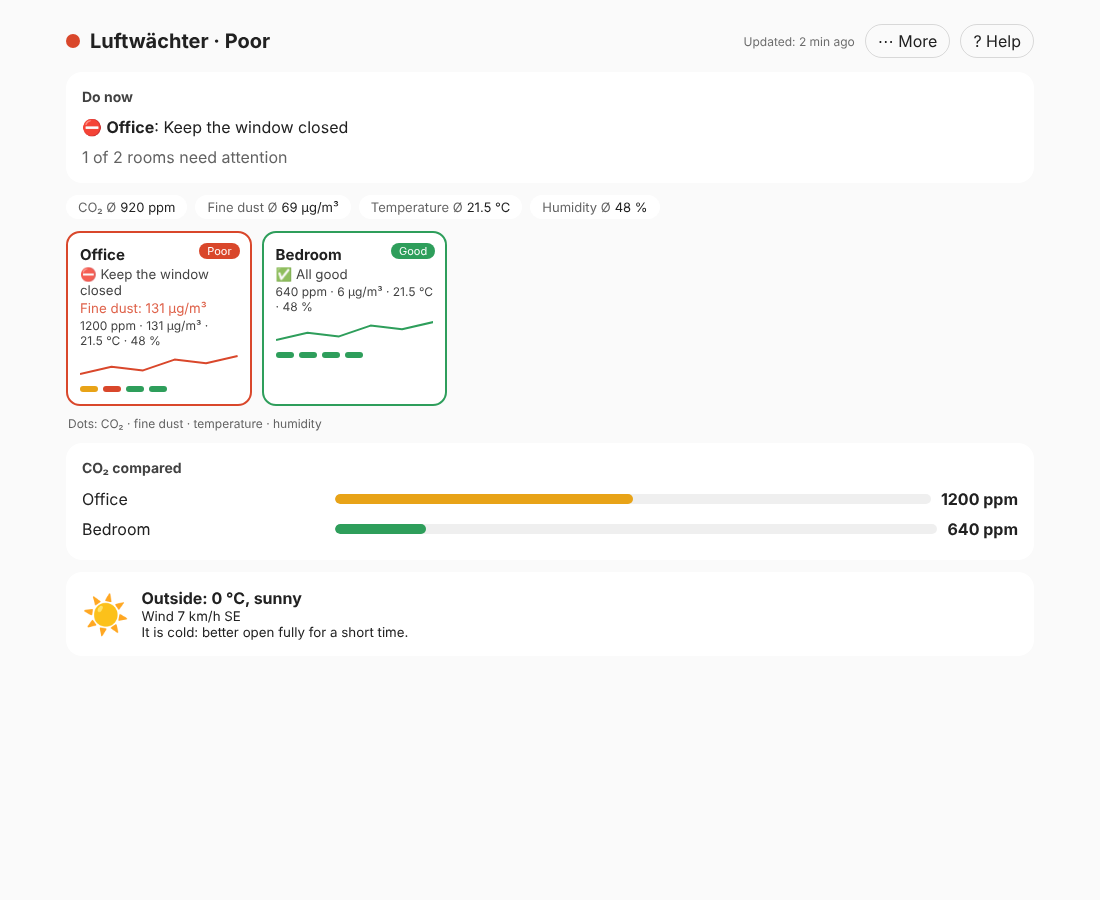
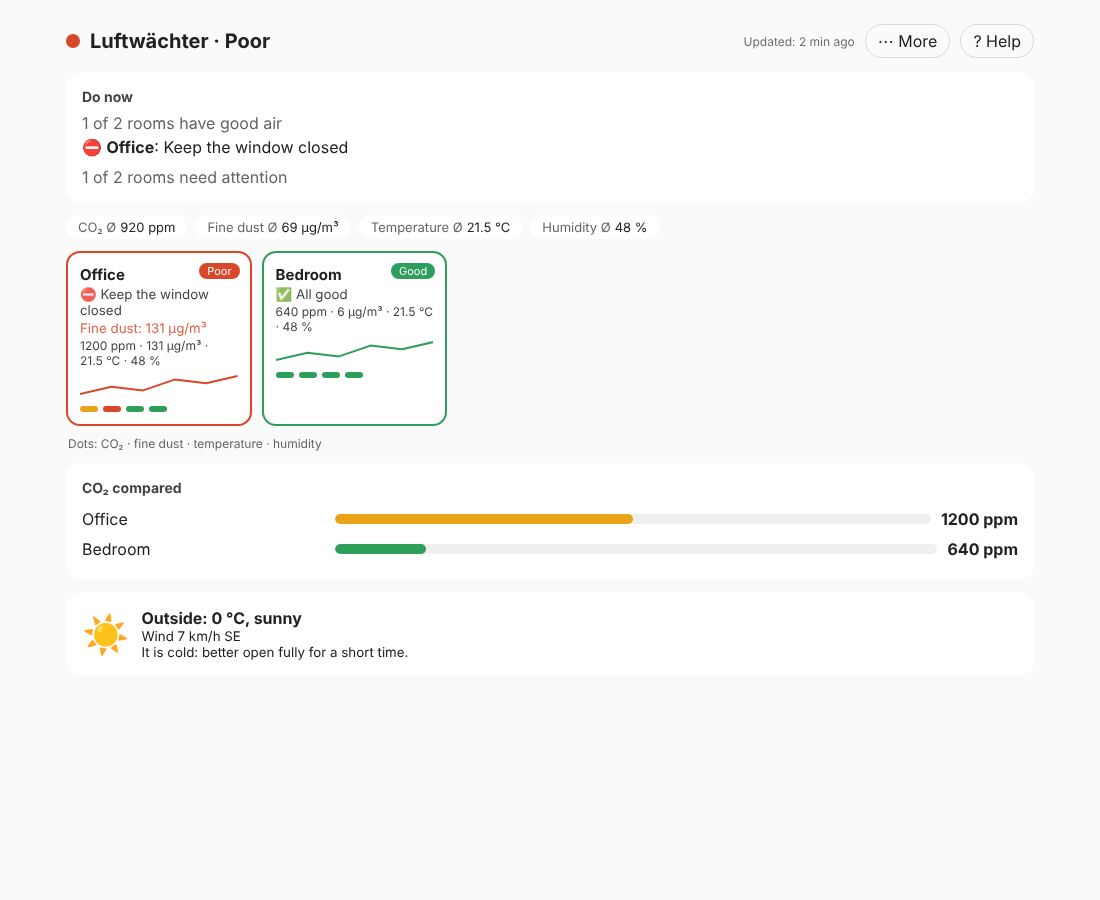
0.11.0: per-room ventilate sensor, reminder blueprint, summary line, announcer, tooltips, print
Claude-Session: https://claude.ai/code/session_01W38UNCWRvMYfcRr6jVyi8m

diff --git a/custom_components/luftwaechter/frontend/luftwaechter-panel.js b/custom_components/luftwaechter/frontend/luftwaechter-panel.js
@@ -11,7 +11,7 @@ const UI = {
     cover_open: "Auf", cover_stop: "Stopp", cover_close: "Zu", allgood: "Alle Werte im grünen Bereich.",
     isPoor: "ist schlecht", isFair: "ist mittel", tooHigh: "zu hoch", tooLow: "zu niedrig", limit: "Grenze",
     attention: "Jetzt tun", nothing: "Nichts zu tun, alles in Ordnung.", rooms_n: "{a} von {n} Räumen brauchen Aufmerksamkeit", stale: "Die Daten sind möglicherweise veraltet (letztes Update vor {n} min).",
-    kTitle: "Tastenkürzel", kRoom: "Raum wechseln", kBack: "Zurück", kSearch: "Suchen", kSort: "Sortieren", kPin: "Raum anheften", kOnly: "Nur Probleme", kList: "Listenansicht", kCopy: "Hausübersicht kopieren", kMenu: "Menü", kRot: "Räume durchschalten", kFs: "Vollbild", kHelp: "Hilfe", swiped: "Wischen wechselt den Raum", size: "Textgröße", onbTitle: "So kommen Räume ins Panel", onb1: "Weise CO₂-, Feinstaub-, Temperatur- oder Luftfeuchte-Sensoren einem Bereich zu (Einstellungen → Bereiche).", onb2: "Der Raum erscheint automatisch, sobald ein Sensor Werte liefert.", onb3: "Optional: Gib einem Fenstersensor die Geräteklasse „Fenster“, dann bekommst du Lüftungsempfehlungen.", noHouse: "Die Integration Luftwächter wurde nicht gefunden. Einstellungen → Geräte & Dienste → Integration hinzufügen → Luftwächter.", legend: "Punkte: CO₂ · Feinstaub · Temperatur · Luftfeuchte", avgT: "Ø im Haus", ventStart: "Lüftungs-Timer starten ({n} min)", ventRun: "Lüften läuft", ventDone: "Zeit ist um: Fenster jetzt schließen", ventStop: "Abbrechen", fs: "Vollbild", fsExit: "Vollbild beenden", copyAll: "Hausstatus kopieren", trendUp: "Steigend", trendDown: "Fallend", onlyProblems: "Nur Probleme", rank: "CO₂ im Vergleich", rotate: "Räume automatisch durchschalten", csv: "CSV", shortcuts: "Tastatur: ← → Raum wechseln · Esc zurück · / suchen · S sortieren · P anheften · O nur Probleme · V Listenansicht · M Menü · R durchschalten · F Vollbild · H Hilfe", search: "Raum suchen…", noMatch: "Kein Raum gefunden.", listView: "Listenansicht", tileView: "Kachelansicht", soundOn: "Signalton bei Ablauf: an", soundOff: "Signalton bei Ablauf: aus", copyLink: "Link kopieren", mold: "Schimmelgefahr", dew: "Taupunkt", more: "Mehr", refreshNow: "Jetzt aktualisieren", cbMode: "Farbenblind-Modus (Symbole)", sinceFor: "{l} seit {t}", sortCo2: "Höchstes CO₂ zuerst", pin: "Oben anheften", unpin: "Nicht mehr anheften", pinned: "Angeheftet", copy: "Status kopieren", copied: "Kopiert", r6h: "6 h", r24h: "24 h", r7d: "7 Tage", a6h: "vor 6 h", a24h: "vor 24 h", a7d: "vor 7 Tagen", dayU: "Tg", hourU: "h",
+    goodOf: "{g} von {n} Räumen haben gute Luft", print: "Drucken / als PDF speichern", kTitle: "Tastenkürzel", kRoom: "Raum wechseln", kBack: "Zurück", kSearch: "Suchen", kSort: "Sortieren", kPin: "Raum anheften", kOnly: "Nur Probleme", kList: "Listenansicht", kCopy: "Hausübersicht kopieren", kMenu: "Menü", kRot: "Räume durchschalten", kFs: "Vollbild", kHelp: "Hilfe", swiped: "Wischen wechselt den Raum", size: "Textgröße", onbTitle: "So kommen Räume ins Panel", onb1: "Weise CO₂-, Feinstaub-, Temperatur- oder Luftfeuchte-Sensoren einem Bereich zu (Einstellungen → Bereiche).", onb2: "Der Raum erscheint automatisch, sobald ein Sensor Werte liefert.", onb3: "Optional: Gib einem Fenstersensor die Geräteklasse „Fenster“, dann bekommst du Lüftungsempfehlungen.", noHouse: "Die Integration Luftwächter wurde nicht gefunden. Einstellungen → Geräte & Dienste → Integration hinzufügen → Luftwächter.", legend: "Punkte: CO₂ · Feinstaub · Temperatur · Luftfeuchte", avgT: "Ø im Haus", ventStart: "Lüftungs-Timer starten ({n} min)", ventRun: "Lüften läuft", ventDone: "Zeit ist um: Fenster jetzt schließen", ventStop: "Abbrechen", fs: "Vollbild", fsExit: "Vollbild beenden", copyAll: "Hausstatus kopieren", trendUp: "Steigend", trendDown: "Fallend", onlyProblems: "Nur Probleme", rank: "CO₂ im Vergleich", rotate: "Räume automatisch durchschalten", csv: "CSV", shortcuts: "Tastatur: ← → Raum wechseln · Esc zurück · / suchen · S sortieren · P anheften · O nur Probleme · V Listenansicht · M Menü · R durchschalten · F Vollbild · H Hilfe", search: "Raum suchen…", noMatch: "Kein Raum gefunden.", listView: "Listenansicht", tileView: "Kachelansicht", soundOn: "Signalton bei Ablauf: an", soundOff: "Signalton bei Ablauf: aus", copyLink: "Link kopieren", mold: "Schimmelgefahr", dew: "Taupunkt", more: "Mehr", refreshNow: "Jetzt aktualisieren", cbMode: "Farbenblind-Modus (Symbole)", sinceFor: "{l} seit {t}", sortCo2: "Höchstes CO₂ zuerst", pin: "Oben anheften", unpin: "Nicht mehr anheften", pinned: "Angeheftet", copy: "Status kopieren", copied: "Kopiert", r6h: "6 h", r24h: "24 h", r7d: "7 Tage", a6h: "vor 6 h", a24h: "vor 24 h", a7d: "vor 7 Tagen", dayU: "Tg", hourU: "h",
     helpTitle: "Was bedeuten die Messwerte?", causes: "Mögliche Ursachen", todo: "Was hilft",
     hCo2: "CO₂ (Kohlendioxid) zeigt, wie verbraucht die Raumluft ist. Wir atmen es aus.",
     cCo2: "Viele Personen im Raum, Schlafen bei geschlossenem Fenster, kleine Räume, geschlossene Türen, Kerzen oder Gasflammen.",
@@ -36,7 +36,7 @@ const UI = {
     cover_open: "Open", cover_stop: "Stop", cover_close: "Close", allgood: "All readings are in the green.",
     isPoor: "is poor", isFair: "is fair", tooHigh: "too high", tooLow: "too low", limit: "Limit",
     attention: "Do now", nothing: "Nothing to do, all good.", rooms_n: "{a} of {n} rooms need attention", stale: "Data may be outdated (last update {n} min ago).",
-    kTitle: "Keyboard shortcuts", kRoom: "Switch room", kBack: "Back", kSearch: "Search", kSort: "Sort", kPin: "Pin room", kOnly: "Only problems", kList: "List view", kCopy: "Copy house summary", kMenu: "Menu", kRot: "Rotate rooms", kFs: "Full screen", kHelp: "Help", swiped: "Swipe to change room", size: "Text size", onbTitle: "How rooms get into the panel", onb1: "Assign CO₂, fine dust, temperature or humidity sensors to an area (Settings → Areas).", onb2: "The room appears automatically as soon as a sensor reports values.", onb3: "Optional: give a window sensor the device class \"window\" to get ventilation advice.", noHouse: "The Luftwächter integration was not found. Settings → Devices & services → Add integration → Luftwächter.", legend: "Dots: CO₂ · fine dust · temperature · humidity", avgT: "House average", ventStart: "Start ventilation timer ({n} min)", ventRun: "Ventilating", ventDone: "Time is up: close the window now", ventStop: "Cancel", fs: "Full screen", fsExit: "Exit full screen", copyAll: "Copy house status", trendUp: "Rising", trendDown: "Falling", onlyProblems: "Only problems", rank: "CO₂ compared", rotate: "Rotate through rooms automatically", csv: "CSV", shortcuts: "Keyboard: ← → switch room · Esc back · / search · S sort · P pin · O only problems · V list view · M menu · R rotate · F full screen · H help", search: "Find a room…", noMatch: "No room found.", listView: "List view", tileView: "Tile view", soundOn: "Sound when time is up: on", soundOff: "Sound when time is up: off", copyLink: "Copy link", mold: "Mold risk", dew: "Dew point", more: "More", refreshNow: "Refresh now", cbMode: "Color-blind mode (symbols)", sinceFor: "{l} for {t}", sortCo2: "Highest CO₂ first", pin: "Pin to top", unpin: "Unpin", pinned: "Pinned", copy: "Copy status", copied: "Copied", r6h: "6 h", r24h: "24 h", r7d: "7 days", a6h: "6 h ago", a24h: "24 h ago", a7d: "7 days ago", dayU: "d", hourU: "h",
+    goodOf: "{g} of {n} rooms have good air", print: "Print / save as PDF", kTitle: "Keyboard shortcuts", kRoom: "Switch room", kBack: "Back", kSearch: "Search", kSort: "Sort", kPin: "Pin room", kOnly: "Only problems", kList: "List view", kCopy: "Copy house summary", kMenu: "Menu", kRot: "Rotate rooms", kFs: "Full screen", kHelp: "Help", swiped: "Swipe to change room", size: "Text size", onbTitle: "How rooms get into the panel", onb1: "Assign CO₂, fine dust, temperature or humidity sensors to an area (Settings → Areas).", onb2: "The room appears automatically as soon as a sensor reports values.", onb3: "Optional: give a window sensor the device class \"window\" to get ventilation advice.", noHouse: "The Luftwächter integration was not found. Settings → Devices & services → Add integration → Luftwächter.", legend: "Dots: CO₂ · fine dust · temperature · humidity", avgT: "House average", ventStart: "Start ventilation timer ({n} min)", ventRun: "Ventilating", ventDone: "Time is up: close the window now", ventStop: "Cancel", fs: "Full screen", fsExit: "Exit full screen", copyAll: "Copy house status", trendUp: "Rising", trendDown: "Falling", onlyProblems: "Only problems", rank: "CO₂ compared", rotate: "Rotate through rooms automatically", csv: "CSV", shortcuts: "Keyboard: ← → switch room · Esc back · / search · S sort · P pin · O only problems · V list view · M menu · R rotate · F full screen · H help", search: "Find a room…", noMatch: "No room found.", listView: "List view", tileView: "Tile view", soundOn: "Sound when time is up: on", soundOff: "Sound when time is up: off", copyLink: "Copy link", mold: "Mold risk", dew: "Dew point", more: "More", refreshNow: "Refresh now", cbMode: "Color-blind mode (symbols)", sinceFor: "{l} for {t}", sortCo2: "Highest CO₂ first", pin: "Pin to top", unpin: "Unpin", pinned: "Pinned", copy: "Copy status", copied: "Copied", r6h: "6 h", r24h: "24 h", r7d: "7 days", a6h: "6 h ago", a24h: "24 h ago", a7d: "7 days ago", dayU: "d", hourU: "h",
     helpTitle: "What do the readings mean?", causes: "Possible causes", todo: "What helps",
     hCo2: "CO₂ (carbon dioxide) shows how stale the room air is. We breathe it out.",
     cCo2: "Many people in the room, sleeping with the window closed, small rooms, closed doors, candles or gas flames.",
@@ -125,7 +125,7 @@ class LuftwaechterPanel extends HTMLElement {
     return [ov && many ? b("only", "⚠", t.onlyProblems, this._only) : "", ov && many ? b("sort", "↕", this._sortLabel(t)) : "",
       ov && many ? b("dens", this._list ? "▦" : "☰", this._list ? t.tileView : t.listView) : "", many ? b("rot", "⟳", t.rotate, this._rot) : "",
       ov && rooms.length ? b("copyall", "⧉", t.copyAll) : "", document.fullscreenEnabled ? b("fs", fs ? "🗗" : "⛶", fs ? t.fsExit : t.fs) : "",
-      b("size", "Aa", t.size), b("cb", "◐", t.cbMode, this._cb), b("refresh", "↻", t.refreshNow)].join("");
+      b("print", "🖨", t.print), b("size", "Aa", t.size), b("cb", "◐", t.cbMode, this._cb), b("refresh", "↻", t.refreshNow)].join("");
   }
   _nextSort() { this._sort = { worst: "name", name: "co2" }[this._sort] || "worst"; store.set("lw_sort", this._sort); this._render(); }
   _pin(key) { const i = this._pins.indexOf(key); if (i < 0) this._pins.push(key); else this._pins.splice(i, 1); store.set("lw_pins", JSON.stringify(this._pins)); this._render(); }
@@ -427,13 +427,14 @@ header{position:sticky;top:0;z-index:5;background:var(--primary-background-color
     else if (!sel) {
       const todo = rooms.filter((r) => ["open", "close", "wait", "keep_open"].includes(r.action) || r.level === "poor" || r.level === "fair");
       const attn = rooms.filter((r) => r.level === "poor" || r.level === "fair").length;
-      const sum = `<div class="card sum"><h3>${esc(t.attention)}</h3>${todo.length ? `<ul class="todo">${todo.map((r) => `<li><button class="link" data-room="${esc(r.key)}"><span>${ICON[r.action] && r.action !== "keep_closed" ? ICON[r.action] : LVLICON[["good", "fair", "poor"].indexOf(r.level)] || "❔"}</span> <b>${esc(r.name)}</b>: ${esc(r.headline)}</button></li>`).join("")}</ul><p class="muted">${esc(t.rooms_n.replace("{a}", attn).replace("{n}", rooms.length))}</p>` : `<p class="muted">✅ ${esc(t.nothing)}</p>`}</div>`;
+      const goodN = rooms.filter((r) => r.level === "good").length;
+      const sum = `<div class="card sum"><h3>${esc(t.attention)}</h3>${rooms.length > 1 ? `<p class="muted goodof">${esc(t.goodOf.replace("{g}", goodN).replace("{n}", rooms.length))}</p>` : ""}${todo.length ? `<ul class="todo">${todo.map((r) => `<li><button class="link" data-room="${esc(r.key)}"><span>${ICON[r.action] && r.action !== "keep_closed" ? ICON[r.action] : LVLICON[["good", "fair", "poor"].indexOf(r.level)] || "❔"}</span> <b>${esc(r.name)}</b>: ${esc(r.headline)}</button></li>`).join("")}</ul><p class="muted">${esc(t.rooms_n.replace("{a}", attn).replace("{n}", rooms.length))}</p>` : `<p class="muted">✅ ${esc(t.nothing)}</p>`}</div>`;
       const stats = this._stats(rooms, a.lang);
       const shown = this._only ? rooms.filter((r) => r.level !== "good") : rooms;
       body = sum + `<div class="stats" aria-label="${esc(t.avgT)}">${stats.map(([k, v, u]) => `<span><em>${esc(t[k])} Ø</em>${esc(v)} ${esc(u)}</span>`).join("")}</div>${shown.length ? "" : `<p class="muted">✅ ${esc(t.nothing)}</p>`}${rooms.length >= 6 ? `<input class="search" id="q" type="search" value="${esc(this._q)}" placeholder="${esc(t.search)}" aria-label="${esc(t.search)}">` : ""}<p class="muted" id="nomatch" hidden>${esc(t.noMatch)}</p><div class="tiles${this._list ? " list" : ""}">${shown.map((r) => {
         const bad = r.values.filter((v) => v.level >= 1 && v.raw != null).sort((x, y) => y.level - x.level)[0];
         const co2 = r.values.find((v) => v.key === "co2");
-        return `<button class="tile" data-name="${esc(r.name.toLowerCase())}" data-room="${esc(r.key)}" style="border-color:${this._col(r.level)}" aria-label="${esc(r.name)}: ${esc(t[r.level] || t.unknown)}">
+        return `<button class="tile" data-name="${esc(r.name.toLowerCase())}" data-room="${esc(r.key)}" style="border-color:${this._col(r.level)}" aria-label="${esc(r.name)}: ${esc(t[r.level] || t.unknown)}" title="${esc(r.headline)} · ${esc(r.detail)}">
           <b>${this._pins.includes(r.key) ? "★ " : ""}${esc(r.name)}</b><span class="pill" title="${r.since >= 2 ? esc(t.sinceFor.replace("{l}", t[r.level] || t.unknown).replace("{t}", this._dur(r.since))) : ""}" style="background:${this._col(r.level)}">${esc(t[r.level] || t.unknown)}</span><small>${LVLICON[["good", "fair", "poor"].indexOf(r.level)] || "❔"} ${esc(r.headline)}</small>
           ${bad ? `<small style="color:${COL[bad.level]}">${esc(t[bad.key])}: ${esc(bad.value)} ${esc(bad.unit)}</small>` : ""}<small class="mini">${r.values.filter((v) => v.raw != null).map((v) => esc(v.value) + "\u00a0" + esc(v.unit)).join(" · ")}</small>${r.trend === "up" || r.trend === "down" ? `<small>${r.trend === "up" ? "↗" : "↘"} ${esc(t[r.trend === "up" ? "trendUp" : "trendDown"])}</small>` : ""}${r.mold ? `<small class="mold">💧 ${esc(t.mold)}</small>` : ""}${this._spark(r)}<div class="dots${this._cb ? " cbd" : ""}" aria-hidden="true">${r.values.map((v) => `<i title="${esc(t[v.key])}: ${esc(v.value)} ${esc(v.unit)}" style="background:${this._lcol(v.level)}">${this._cb ? this._sym(v.level) : ""}</i>`).join("")}</div></button>`;
       }).join("")}</div><p class="muted legend">${esc(t.legend)}</p>${this._rank(rooms, t)}`;
@@ -454,6 +455,11 @@ header{position:sticky;top:0;z-index:5;background:var(--primary-background-color
     if (this._refocus) { this._refocus = false; q("#help")?.focus(); }
     qa(".tile").forEach((b) => b.addEventListener("click", () => this._select(b.dataset.room)));
     try { const n = a.attention || 0, tot = a.total || rooms.length; document.title = rooms.length ? `Luftwächter · ${n ? (this._lang() === "de" ? `${n} von ${tot} brauchen Aufmerksamkeit` : `${n} of ${tot} need attention`) : (this._lang() === "de" ? "Alles gut" : "All good")}` : "Luftwächter"; } catch (er) { /* ignore */ }
+    if (!this._live) { this._live = document.createElement("div"); this._live.setAttribute("aria-live", "polite"); this._live.setAttribute("role", "status"); this._live.style.cssText = "position:absolute;left:-9999px;width:1px;height:1px;overflow:hidden"; }
+    root.appendChild(this._live);
+    const lv = {}; rooms.forEach((r) => { lv[r.key] = r.level; });
+    if (this._lvPrev) { const ch = rooms.filter((r) => this._lvPrev[r.key] && this._lvPrev[r.key] !== r.level); if (ch.length) this._live.textContent = ch.map((r) => `${r.name}: ${t[r.level] || t.unknown}`).join(". "); }
+    this._lvPrev = lv;
     const wrap = q(".wrap");
     if (wrap && sel && rooms.length > 1) {
       let x0 = null, y0 = 0;
@@ -477,6 +483,7 @@ header{position:sticky;top:0;z-index:5;background:var(--primary-background-color
     q("#more")?.addEventListener("click", () => this._toggleMenu());
     q("#menu")?.addEventListener("click", () => { this._menu = false; }, true);
     q("#cb")?.addEventListener("click", () => { this._cb = !this._cb; store.set("lw_cb", this._cb ? "1" : "0"); this._render(); });
+    q("#print")?.addEventListener("click", () => { this._toggleMenu(false); try { window.print(); } catch (e) { /* ignore */ } });
     q("#refresh")?.addEventListener("click", () => { try { this._hass.callService("luftwaechter", "refresh", {}); } catch (e) { /* ignore */ } });
     q("#dens")?.addEventListener("click", () => { this._list = !this._list; store.set("lw_list", this._list ? "1" : "0"); this._render(); });
     q("#snd")?.addEventListener("click", () => { this._snd = !this._snd; store.set("lw_snd", this._snd ? "1" : "0"); if (this._snd) this._beep(); this._render(); });

diff --git a/custom_components/luftwaechter/binary_sensor.py b/custom_components/luftwaechter/binary_sensor.py
@@ -3,7 +3,7 @@ from __future__ import annotations
 
 from homeassistant.components.binary_sensor import BinarySensorDeviceClass, BinarySensorEntity
 from homeassistant.config_entries import ConfigEntry
-from homeassistant.core import HomeAssistant
+from homeassistant.core import HomeAssistant, callback
 from homeassistant.helpers.entity import DeviceInfo
 from homeassistant.helpers.entity_platform import AddEntitiesCallback
 from homeassistant.helpers.update_coordinator import CoordinatorEntity
@@ -13,7 +13,22 @@ from .coordinator import LuftwaechterCoordinator
 
 
 async def async_setup_entry(hass: HomeAssistant, entry: ConfigEntry, async_add_entities: AddEntitiesCallback) -> None:
-    async_add_entities([AttentionSensor(hass.data[DOMAIN][entry.entry_id], entry)])
+    coord: LuftwaechterCoordinator = hass.data[DOMAIN][entry.entry_id]
+    async_add_entities([AttentionSensor(coord, entry)])
+    known: set[str] = set()
+
+    @callback
+    def _add() -> None:
+        new = []
+        for room in (coord.data or {}).get("rooms", []):
+            if room["key"] not in known:
+                known.add(room["key"])
+                new.append(RoomVentilateSensor(coord, entry, room["key"]))
+        if new:
+            async_add_entities(new)
+
+    _add()
+    entry.async_on_unload(coord.async_add_listener(_add))
 
 
 class AttentionSensor(CoordinatorEntity[LuftwaechterCoordinator], BinarySensorEntity):
@@ -37,3 +52,37 @@ class AttentionSensor(CoordinatorEntity[LuftwaechterCoordinator], BinarySensorEn
     def extra_state_attributes(self) -> dict:
         d = self.coordinator.data or {}
         return {"count": d.get("attention", 0), "rooms": d.get("attention_rooms", []), "worst_room": d.get("worst_room", "")}
+
+
+class RoomVentilateSensor(CoordinatorEntity[LuftwaechterCoordinator], BinarySensorEntity):
+    """On while Luftwächter advises opening a window in this room (one per room, for automations)."""
+
+    _attr_has_entity_name = False
+
+    def __init__(self, coord: LuftwaechterCoordinator, entry: ConfigEntry, key: str) -> None:
+        super().__init__(coord)
+        self._key = key
+        self._attr_unique_id = f"{entry.entry_id}_ventilate_{key}"
+        self._attr_device_info = DeviceInfo(identifiers={(DOMAIN, entry.entry_id)}, name="Luftwächter", manufacturer="Dan Stasiak")
+
+    def _room(self) -> dict | None:
+        return next((r for r in (self.coordinator.data or {}).get("rooms", []) if r["key"] == self._key), None)
+
+    @property
+    def name(self) -> str:
+        room = self._room()
+        return f"Luftwächter {room['name'] if room else self._key} ventilate"
+
+    @property
+    def available(self) -> bool:
+        return super().available and self._room() is not None
+
+    @property
+    def is_on(self) -> bool:
+        room = self._room()
+        return bool(room and room["action"] == "open")
+
+    @property
+    def extra_state_attributes(self) -> dict:
+        room = self._room() or {}
+        return {"room": room.get("name", ""), "headline": room.get("headline", ""), "level": room.get("level", "unknown")}

diff --git a/tests/panel.spec.py b/tests/panel.spec.py
@@ -174,6 +174,9 @@ with sync_playwright() as p:
     # help: shortcut table and the ? key; tab title; swipe between rooms; C copies the house summary
     pg.keyboard.press("?"); assert pg.evaluate("el._help") is True and "Keyboard shortcuts" in txt() and pg.evaluate("el.shadowRoot.querySelectorAll('.keys kbd').length") >= 10
     pg.keyboard.press("Escape"); assert pg.evaluate("el._help") is False
+    assert "rooms have good air" in pg.evaluate("el.shadowRoot.querySelector('.goodof').textContent") and "·" in pg.evaluate("el.shadowRoot.querySelector('.tile').title")
+    assert pg.evaluate("el.shadowRoot.querySelector('[aria-live=polite]') !== null") and pg.evaluate("el.shadowRoot.querySelector('#print') !== null")
+    pg.evaluate("() => { window.__printed = 0; window.print = () => { window.__printed++; }; el.shadowRoot.querySelector('#print').click(); }"); assert pg.evaluate("window.__printed") == 1
     assert pg.evaluate("document.title").startswith("Luftwächter")
     pg.evaluate("el._select(el._rooms()[0].key)"); r0 = pg.evaluate("el._sel")
     pg.evaluate("""() => { const w = el.shadowRoot.querySelector('.wrap'); const ev = (t, x) => w.dispatchEvent(new PointerEvent(t, { pointerType: 'touch', clientX: x, clientY: 200, bubbles: true })); ev('pointerdown', 300); ev('pointerup', 120); }""")

diff --git a/tests/test_blueprint.py b/tests/test_blueprint.py
@@ -2,7 +2,8 @@ import pathlib
 
 import yaml
 
-BP = pathlib.Path(__file__).parent.parent / "blueprints/automation/luftwaechter/level_changed.yaml"
+BPS = sorted((pathlib.Path(__file__).parent.parent / "blueprints/automation/luftwaechter").glob("*.yaml"))
+BP = BPS[0].parent / "level_changed.yaml"
 
 
 class _L(yaml.SafeLoader):
@@ -31,3 +32,25 @@ def test_blueprint_is_valid_and_uses_defined_inputs():
     walk(doc)
     assert used == set(bp["input"]), (used, set(bp["input"]))
     assert doc["triggers"][0]["event_type"] == "luftwaechter_level_changed"
+
+
+def test_every_blueprint_is_valid_and_uses_defined_inputs():
+    assert len(BPS) >= 2
+    for path in BPS:
+        doc = yaml.load(path.read_text(encoding="utf-8"), Loader=_L)
+        bp = doc["blueprint"]
+        assert bp["domain"] == "automation" and bp["source_url"].endswith(path.name), path
+        used = set()
+
+        def walk(x):
+            if isinstance(x, dict):
+                if "__input__" in x:
+                    used.add(x["__input__"])
+                for v in x.values():
+                    walk(v)
+            elif isinstance(x, list):
+                for v in x:
+                    walk(v)
+
+        walk(doc)
+        assert used == set(bp["input"]), (path.name, used, set(bp["input"]))

diff --git a/tests/test_integration.py b/tests/test_integration.py
@@ -172,3 +172,13 @@ async def test_good_rooms_sensor_and_diagnostics(hass, enable_custom_integration
 
     diag = await async_get_config_entry_diagnostics(hass, entry)
     assert diag["good"] == 1 and diag["total"] == 1 and "stale_min" in diag and "attention" in diag
+
+
+async def test_room_ventilate_binary_sensor(hass, enable_custom_integrations):
+    entry, _eid = await _setup(hass, co2="1300")
+    s = hass.states.get("binary_sensor.luftwachter_office_ventilate")
+    assert s is not None and s.state == "on" and s.attributes["room"] == "Office"
+    hass.states.async_set(_eid, "450", {"device_class": "carbon_dioxide"})
+    await hass.data[DOMAIN][entry.entry_id].async_refresh()
+    await hass.async_block_till_done()
+    assert hass.states.get("binary_sensor.luftwachter_office_ventilate").state == "off"

diff --git a/custom_components/luftwaechter/__init__.py b/custom_components/luftwaechter/__init__.py
@@ -15,7 +15,7 @@ from .coordinator import LuftwaechterCoordinator
 
 PLATFORMS = ["sensor", "binary_sensor"]
 CONFIG_SCHEMA = cv.config_entry_only_config_schema(DOMAIN)
-_VERSION = "0.10.0"
+_VERSION = "0.11.0"
 
 
 async def async_setup(hass: HomeAssistant, config: ConfigType) -> bool:

diff --git a/README.md b/README.md
@@ -30,6 +30,7 @@ Companion to the [Luftwächter Windows widget](https://github.com/DanStasiak/air
 Questions? See [SUPPORT.md](SUPPORT.md).
 
 ## Features
+- **Screen-reader friendly:** level changes are announced politely, tiles have tooltips with the full advice, everything works by keyboard.
 - **Do-now overview**: which rooms need attention, worst first, with a coloured dot per reading on every tile.
 - **Room view**: status badge, "what stands out" with the limits, gauge bars, 24 h / 6 h / 7 day history charts with hover readout.
 - **Advice**: open, close or keep the window; how long to ventilate; wait for storms; rain-soon hint from your weather forecast.
@@ -130,6 +131,7 @@ The room level is the worst of the four.
 | `sensor.luftwachter_<room>` | good / fair / poor | action, headline, detail, window, trend, since, mold, dew, values, devices, sources |
 | `sensor.luftwachter_house` | worst level | rooms, outside, limits, updated, attention, attention_rooms, worst_room |
 | `sensor.luftwachter_good_rooms` | share of rooms with good air, % | good, total |
+| `binary_sensor.luftwachter_<room>_ventilate` | on while the advice for the room is "open the window" | room, headline, level |
 | `binary_sensor.luftwachter_attention` | on while a room is poor or advises opening / waiting | count, rooms, worst_room |
 
 Example automation: notify when a room gets poor.
@@ -161,6 +163,10 @@ The room attribute `trend` is `up`, `down` or `flat` (CO₂ or fine dust compare
 Prefer clicks to YAML? Import the blueprint and pick the level, an optional room and what should happen (notification, speech, a light, anything). In your actions you can use `{{ room }}`, `{{ headline }}`, `{{ level }}` and `{{ previous }}`.
 
 [![Import blueprint](https://my.home-assistant.io/badges/blueprint_import.svg)](https://my.home-assistant.io/redirect/blueprint_import/?blueprint_url=https%3A%2F%2Fgithub.com%2FDanStasiak%2Fluftwaechter-ha%2Fblob%2Fmain%2Fblueprints%2Fautomation%2Fluftwaechter%2Flevel_changed.yaml)
+
+**Second blueprint, "remind me to ventilate":** pick a room's *ventilate* sensor and how long the advice must last (for example 5 minutes), then choose what happens. Use `{{ room }}` and `{{ headline }}` in your texts.
+
+[![Import blueprint](https://my.home-assistant.io/badges/blueprint_import.svg)](https://my.home-assistant.io/redirect/blueprint_import/?blueprint_url=https%3A%2F%2Fgithub.com%2FDanStasiak%2Fluftwaechter-ha%2Fblob%2Fmain%2Fblueprints%2Fautomation%2Fluftwaechter%2Fventilate_reminder.yaml)
 
 ## Actions and diagnostics
 - `luftwaechter.refresh` recalculates all rooms immediately.

diff --git a/README.de.md b/README.de.md
@@ -51,11 +51,16 @@ Weise CO₂-, Feinstaub-, Temperatur- oder Feuchte-Sensoren einem **Bereich** zu
 | `sensor.luftwachter_<raum>` | good / fair / poor | action, headline, detail, window, trend, since, mold, dew, values, devices |
 | `sensor.luftwachter_house` | schlechtester Wert | rooms, outside, limits, attention, attention_rooms, worst_room |
 | `sensor.luftwachter_good_rooms` | Anteil der Räume mit guter Luft, % | good, total |
+| `binary_sensor.luftwachter_<raum>_ventilate` | an, solange für den Raum „Fenster öffnen“ geraten wird | room, headline, level |
 | `binary_sensor.luftwachter_attention` | an, solange ein Raum schlecht ist oder Lüften/Warten rät | count, rooms, worst_room |
 
 Die Entity-IDs hängen von deiner Installation ab. Ereignis und Blueprint sind in der [englischen Beschreibung](README.md#events-for-automations) erklärt; der Blueprint lässt sich mit einem Klick importieren:
 
 [![Blueprint importieren](https://my.home-assistant.io/badges/blueprint_import.svg)](https://my.home-assistant.io/redirect/blueprint_import/?blueprint_url=https%3A%2F%2Fgithub.com%2FDanStasiak%2Fluftwaechter-ha%2Fblob%2Fmain%2Fblueprints%2Fautomation%2Fluftwaechter%2Flevel_changed.yaml)
+
+Zweiter Blueprint „Ans Lüften erinnern“: Lüften-Sensor eines Raums wählen, dazu wie lange der Rat bestehen muss (z. B. 5 Minuten), dann festlegen, was passiert:
+
+[![Import blueprint](https://my.home-assistant.io/badges/blueprint_import.svg)](https://my.home-assistant.io/redirect/blueprint_import/?blueprint_url=https%3A%2F%2Fgithub.com%2FDanStasiak%2Fluftwaechter-ha%2Fblob%2Fmain%2Fblueprints%2Fautomation%2Fluftwaechter%2Fventilate_reminder.yaml)
 
 ## Tastatur
 ← → Raum wechseln · Esc zurück · `/` suchen · `S` sortieren (schlechtester, Name, CO₂) · `P` Raum anheften · `O` nur Probleme · `V` Listenansicht · `C` Hausübersicht kopieren · `M` Menü · `R` durchschalten · `F` Vollbild · `H` oder `?` Hilfe. Am Handy wischt du im Raum nach links oder rechts, um den Raum zu wechseln.

diff --git a/CHANGELOG.md b/CHANGELOG.md
@@ -1,5 +1,17 @@
 # Changelog
 
+## 0.11.0
+- New binary sensor per room, `binary_sensor.luftwachter_<room>_ventilate`: on while the advice is "open the window". The simplest trigger for your own automations.
+- New blueprint "remind me to ventilate": pick the room's ventilate sensor, set how long the advice must last, choose the action. One-click import badge in the README.
+- The overview says how many rooms are fine ("3 of 5 rooms have good air").
+- Screen readers announce level changes ("Office: Poor") without moving the focus.
+- Tiles show the full advice as a tooltip.
+- More menu: "Print / save as PDF" (the print layout hides buttons and menus).
+- Blueprint test now checks every blueprint in the folder.
+- Tests: 33, plus panel checks for the summary line, tooltip, print entry and announcer.
+- README: second blueprint, new entity row and a screen-reader line in the feature list, English and German.
+- DE: Neuer Lüften-Sensor pro Raum (`binary_sensor.luftwachter_<raum>_ventilate`), neuer Blueprint „Ans Lüften erinnern“, Übersicht zeigt „3 von 5 Räumen haben gute Luft“, Screenreader-Ansagen bei Wechsel, Tooltips an den Kacheln, Menüpunkt „Drucken / als PDF speichern“.
+
 ## 0.10.0
 - Help dialog: a proper keyboard shortcut table instead of one long line; the `?` key opens the help too.
 - Key `C` copies the house summary (the same text as the menu entry) without opening the menu.
